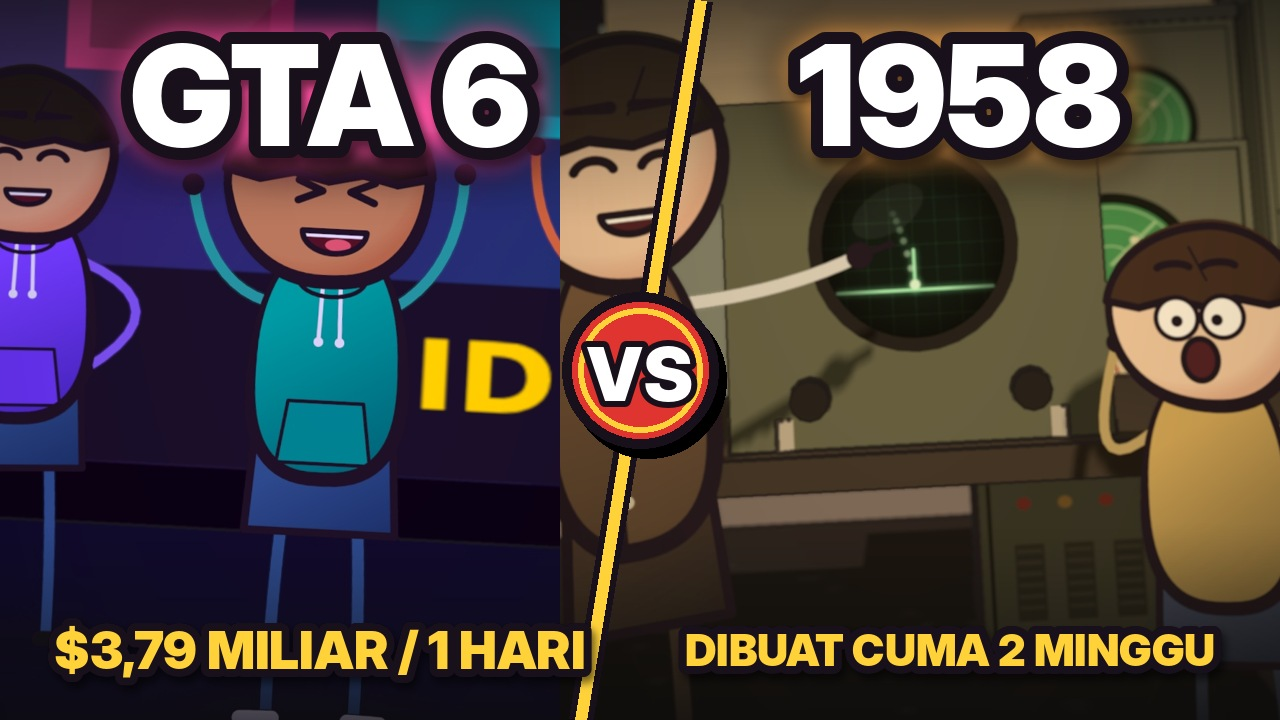
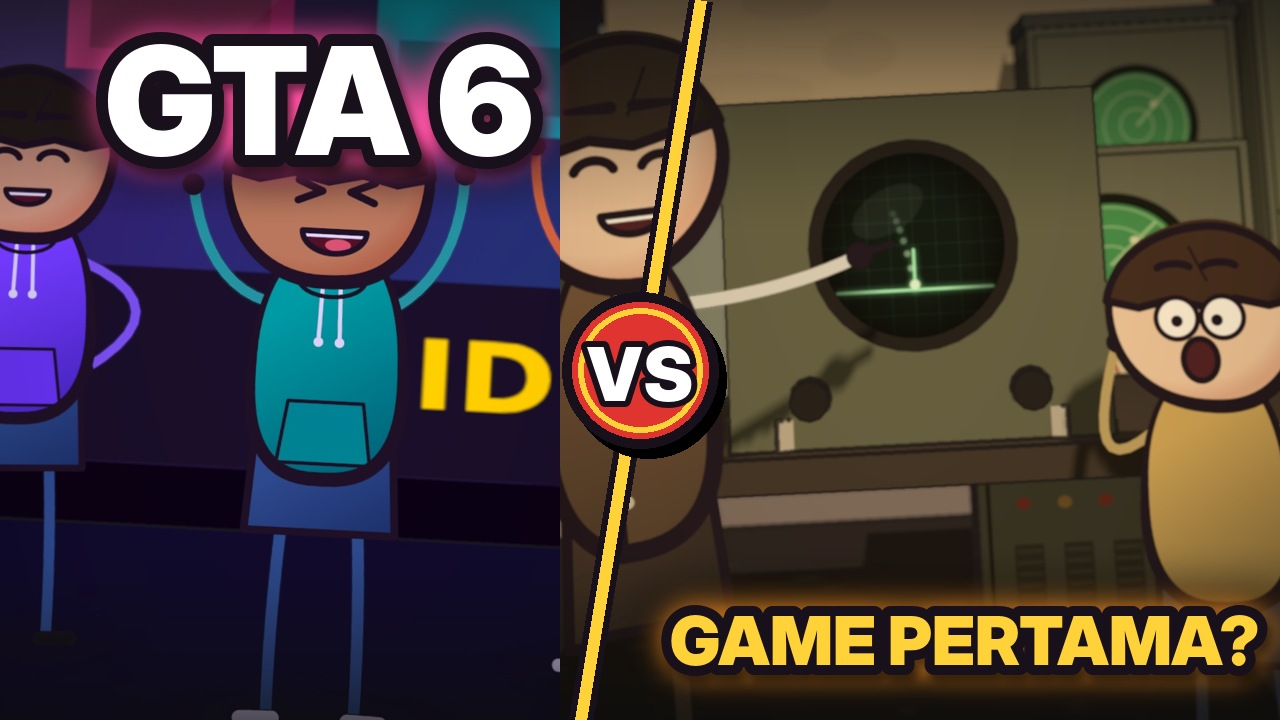
First-video-game thumbnails: minimal text (GTA 6 vs first game?)
Claude-Session: https://claude.ai/code/session_01EsaXemZXeCNVajVZ7F9xXF

diff --git a/shorts/first-video-game/thumb.py b/shorts/first-video-game/thumb.py
@@ -5,7 +5,7 @@ A = Image.open("stills/thA/f0023.jpg").convert("RGB"); Bm = Image.open("stills/t
 INK, YEL, PINK, CYAN, RED, WHITE = (24, 16, 26), (255, 210, 58), (255, 79, 160), (79, 224, 255), (224, 52, 48), (255, 255, 255)
 TXT = {
   "id": dict(top="GTA 6", sub="$3,79 MILIAR / 1 HARI", bot1="GAME PERTAMA?", bot2="DIBUAT CUMA 2 MINGGU"),
-  "en": dict(top="GTA 6", sub="$3.79 BILLION IN 1 DAY", bot1="THE FIRST GAME?", bot2="BUILT IN JUST 2 WEEKS"),
+  "en": dict(top="GTA 6", sub="$3.79 BILLION IN 1 DAY", bot1="FIRST GAME?", bot2="BUILT IN JUST 2 WEEKS"),
 }
 def F(size): return ImageFont.truetype(FONT, size)
 def fit(text, maxw, size):
@@ -44,12 +44,9 @@ def vertical(lang):
     g2 = Image.new("L", (1, H)); [g2.putpixel((0, y), int(200 * max(0, (y - 1520) / 400) ** 1.2)) for y in range(H)]
     im.alpha_composite(Image.merge("RGBA", [Image.new("L", (W, H), 12)] * 3 + [g2.resize((W, H))]))
     d = ImageDraw.Draw(im); d.line([p0, p1], fill=INK, width=30); d.line([p0, p1], fill=YEL, width=16)
-    text(im, (W / 2, 170), T["top"], F(250), WHITE, 16, glow=PINK)
-    text(im, (W / 2, 350), T["sub"], fit(T["sub"], W - 90, 88), YEL, 10)
-    badge(im, (40, 830), "2026", 92, (138, 91, 255)); badge(im, (W - 250, 975), "1958", 92, (176, 120, 60))
-    vs(im, (W / 2, 970), 105)
-    text(im, (W / 2, 1700), T["bot1"], fit(T["bot1"], W - 80, 150), WHITE, 14)
-    text(im, (W / 2, 1840), T["bot2"], fit(T["bot2"], W - 120, 84), YEL, 10)
+    text(im, (W / 2, 200), T["top"], F(280), WHITE, 18, glow=PINK)
+    vs(im, (W / 2, 970), 115)
+    text(im, (W / 2, 1760), T["bot1"], fit(T["bot1"], W - 70, 170), YEL, 16, glow=(255, 150, 40))
     im.convert("RGB").save(f"out/thumbnail_{lang}_vertical.jpg", quality=93)
 
 def landscape(lang):
@@ -61,13 +58,11 @@ def landscape(lang):
     R = Image.new("RGB", (W, H)); R.paste(right, (W - 760, 0)); im.paste(R, (0, 0), m)
     g = Image.new("L", (1, H)); [g.putpixel((0, y), int(170 * max(0, 1 - y / 230) ** 1.2)) for y in range(H)]
     im.alpha_composite(Image.merge("RGBA", [Image.new("L", (W, H), 12)] * 3 + [g.resize((W, H))]))
-    g2 = Image.new("L", (1, H)); [g2.putpixel((0, y), int(190 * max(0, (y - 520) / 200) ** 1.2)) for y in range(H)]
+    g2 = Image.new("L", (1, H)); [g2.putpixel((0, y), int(170 * max(0, (y - 540) / 180) ** 1.2)) for y in range(H)]
     im.alpha_composite(Image.merge("RGBA", [Image.new("L", (W, H), 12)] * 3 + [g2.resize((W, H))]))
     d = ImageDraw.Draw(im); d.line([(700, 0), (580, H)], fill=INK, width=24); d.line([(700, 0), (580, H)], fill=YEL, width=12)
-    text(im, (330, 95), T["top"], F(140), WHITE, 12, glow=PINK, shadow=7)
-    text(im, (960, 95), "1958", F(140), WHITE, 12, glow=(255, 170, 80), shadow=7)
-    text(im, (320, 650), T["sub"], fit(T["sub"], 560, 60), YEL, 8, shadow=6)
-    text(im, (950, 650), T["bot2"], fit(T["bot2"], 560, 60), YEL, 8, shadow=6)
+    text(im, (320, 100), T["top"], F(150), WHITE, 12, glow=PINK, shadow=7)
+    text(im, (965, 640), T["bot1"], fit(T["bot1"], 590, 100), YEL, 10, glow=(255, 150, 40), shadow=7)
     vs(im, (640, 370), 78)
     im.convert("RGB").save(f"out/thumbnail_{lang}_landscape.jpg", quality=93)
 
